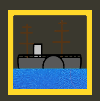
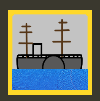
Misc. improvements

diff --git a/modules/notifications.py b/modules/notifications.py
@@ -6,6 +6,7 @@ from . import text_tools
 from . import utility
 from . import scaling
 from . import actor_utility
+from . import game_transitions
 
 class notification(multi_line_label):
     '''
@@ -150,10 +151,35 @@ class zoom_notification(notification):
         '''
         super().__init__(coordinates, ideal_width, minimum_height, modes, image, message, global_manager)
         self.notification_type = 'default'
+        self.reselect = True
         if self.global_manager.get('strategic_map_grid') in target.grids:
             self.global_manager.get('minimap_grid').calibrate(target.x, target.y)
         if target.actor_type == 'tile':
             actor_utility.calibrate_actor_info_display(self.global_manager, self.global_manager.get('tile_info_display_list'), target)
+            if not target.cell.grid.mini_grid == 'none':
+                target.grids[0].mini_grid.calibrate(target.x, target.y)
         elif target.actor_type == 'mob':
-            actor_utility.calibrate_actor_info_display(self.global_manager, self.global_manager.get('mob_info_display_list'), target)
-            actor_utility.calibrate_actor_info_display(self.global_manager, self.global_manager.get('tile_info_display_list'), target.images[0].current_cell.tile)
+            if not target.images[0].current_cell == 'none': #if non-hidden mob, move to front of tile and select
+                if self.global_manager.get('displayed_mob') == target:
+                    self.reselect = False
+                target.select()
+                target.move_to_front()
+                #actor_utility.calibrate_actor_info_display(global_manager, global_manager.get('tile_info_display_list'), target.images[0].current_cell.tile)
+                if (not target.grids[0].mini_grid == 'none'): #if not in abstract grid, calibrate mini map to mob location
+                   target.grids[0].mini_grid.calibrate(target.x, target.y)
+
+            else: #if hidden mob, move to location and select tile
+                target.grids[0].mini_grid.calibrate(target.x, target.y)
+                actor_utility.calibrate_actor_info_display(global_manager, global_manager.get('tile_info_display_list'), target.grids[0].find_cell(target.x, target.y).tile)
+            
+            #target.move_to_front()
+            #target.select()
+            #actor_utility.calibrate_actor_info_display(self.global_manager, self.global_manager.get('mob_info_display_list'), target)
+            #actor_utility.calibrate_actor_info_display(self.global_manager, self.global_manager.get('tile_info_display_list'), target.images[0].current_cell.tile)
+
+    def remove(self):
+        #if len(self.global_manager.get('notification_manager').
+        if self.reselect:
+            game_transitions.cycle_player_turn(self.global_manager, True)
+        super().remove()
+

diff --git a/modules/actor_display_tools/labels.py b/modules/actor_display_tools/labels.py
@@ -71,8 +71,8 @@ class actor_display_label(label):
             self.attached_buttons.append(buttons.upgrade_button((self.x, self.y), self.height, self.height + 6, 'none', self.modes, self, 'resource', 'scale', global_manager))
             self.attached_buttons.append(buttons.upgrade_button((self.x, self.y), self.height, self.height + 6, 'none', self.modes, self, 'resource', 'efficiency', global_manager))
             
-            self.attached_buttons.append(buttons.build_train_button((self.x, self.y), self.height + 6, self.height + 6, pygame.K_y, self.modes, 'buildings/buttons/train.png', self, global_manager))
-            self.attached_buttons.append(buttons.build_steamboat_button((self.x, self.y), self.height + 6, self.height + 6, pygame.K_u, self.modes, 'buildings/buttons/steamboat.png', self, global_manager))
+            self.attached_buttons.append(buttons.build_train_button((self.x, self.y), self.height + 6, self.height + 6, pygame.K_y, self.modes, 'mobs/train/button.png', self, global_manager))
+            self.attached_buttons.append(buttons.build_steamboat_button((self.x, self.y), self.height + 6, self.height + 6, pygame.K_u, self.modes, 'mobs/steamboat/button.png', self, global_manager))
             self.attached_buttons.append(buttons.trade_button((self.x, self.y), self.height + 6, self.height + 6, pygame.K_r, self.modes, 'buttons/trade_button.png', self, global_manager))
             self.attached_buttons.append(buttons.convert_button((self.x, self.y), self.height + 6, self.height + 6, pygame.K_t, self.modes, 'buttons/convert_button.png', self, global_manager))
             self.attached_buttons.append(buttons.evangelist_campaign_button((self.x, self.y), self.height + 6, self.height + 6, pygame.K_r, self.modes, 'buttons/public_relations_campaign_button.png', self, 'public relations campaign', global_manager))

diff --git a/modules/choice_notifications.py b/modules/choice_notifications.py
@@ -6,6 +6,7 @@ from .notifications import notification
 from . import text_tools
 from . import scaling
 from . import market_tools
+from . import utility
 
 class choice_notification(notification):
     '''
@@ -116,8 +117,13 @@ class choice_button(button):
         '''
         self.notification = notification
         if button_type == 'recruitment':
-            self.message = 'Recruit'
             self.recruitment_type = self.notification.choice_info_dict['recruitment_type']
+            if self.recruitment_type in ['steamship', 'slave workers']:
+                self.message = 'Purchase'
+                self.verb = 'purchase'
+            else:
+                self.message = 'Hire'
+                self.verb = 'hire'
             self.cost = self.notification.choice_info_dict['cost']
             self.mob_image_id = self.notification.choice_info_dict['mob_image_id']
             
@@ -217,9 +223,9 @@ class choice_button(button):
         '''
         if self.button_type == 'recruitment':
             if self.recruitment_type in ['African worker village', 'African worker slums', 'African worker labor broker']:
-                self.set_tooltip(['Recruit an African worker for ' + str(self.cost) + ' money'])
+                self.set_tooltip([utility.capitalize(self.verb) + ' an African worker for ' + str(self.cost) + ' money'])
             else:
-                self.set_tooltip(['Recruit a ' + self.recruitment_type + ' for ' + str(self.cost) + ' money'])
+                self.set_tooltip([utility.capitalize(self.verb) + ' a ' + self.recruitment_type + ' for ' + str(self.cost) + ' money'])
 
         elif self.button_type == 'end turn':
             self.set_tooltip(['End the current turn'])

diff --git a/modules/actor_creation_tools.py b/modules/actor_creation_tools.py
@@ -135,7 +135,7 @@ class actor_creation_manager_template(): #can get instance from anywhere and cre
             None
         '''
         recruitment_type = recruitment_name
-        if recruitment_name in ['slave workers', 'ship']:
+        if recruitment_name in ['slave workers', 'steamship']:
             verb = 'purchase'
         elif recruitment_name in ['African workers', 'European workers']:
             verb = 'hire'
@@ -143,7 +143,9 @@ class actor_creation_manager_template(): #can get instance from anywhere and cre
                 recruitment_type = choice_info_dict['source_type'] + ' workers' #slums workers or village workers
         else:
             verb = 'recruit'
-        if recruitment_name in ['slave workers', 'African workers', 'European workers']:
+        if recruitment_name == 'African workers' and choice_info_dict['source_type'] == 'labor broker':
+            message = 'Are you sure you want to pay a labor broker ' + str(choice_info_dict['cost']) + ' money to hire a unit of African workers from a nearby village? /n /n' 
+        elif recruitment_name in ['slave workers', 'African workers', 'European workers']:
             message = 'Are you sure you want to ' + verb + ' a unit of ' + recruitment_name + ' for ' + str(choice_info_dict['cost']) + ' money? /n /n'
         else:
             message = 'Are you sure you want to ' + verb + ' ' + utility.generate_article(recruitment_name) + ' ' + recruitment_name + ' for ' + str(choice_info_dict['cost']) + ' money? /n /n'

diff --git a/modules/turn_management_tools.py b/modules/turn_management_tools.py
@@ -83,9 +83,10 @@ def start_player_turn(global_manager, first_turn = False):
         
     if not first_turn:
         market_tools.adjust_prices(global_manager)#adjust_prices(global_manager)
-            
-    actor_utility.deselect_all(global_manager)
-    game_transitions.cycle_player_turn(global_manager, True)
+
+    if global_manager.get('displayed_mob') == 'none' or global_manager.get('displayed_mob').is_npmob:
+        actor_utility.deselect_all(global_manager)
+        game_transitions.cycle_player_turn(global_manager, True)
 
 def reset_mobs(mob_type, global_manager):
     '''
@@ -299,6 +300,15 @@ def manage_worker_migration(global_manager):
     num_slums_workers = actor_utility.get_num_available_workers('slums', global_manager)
     if num_village_workers > num_slums_workers and random.randrange(1, 7) >= 5: #1/3 chance of activating
         trigger_worker_migration(global_manager)
+
+    for current_slums in global_manager.get('slums_list'):
+        population_increase = 0
+        for current_worker in range(current_slums.available_workers):
+            if random.randrange(1, 7) == 1 and random.randrange(1, 7) == 1 and random.randrange(1, 7) == 1:
+                population_increase += 1
+                market_tools.attempt_worker_upkeep_change('decrease', 'African', global_manager)
+        if population_increase > 0:
+            current_slums.change_population(population_increase)
 
 def trigger_worker_migration(global_manager): #resolves migration if it occurs
     '''

diff --git a/modules/tiles.py b/modules/tiles.py
@@ -124,16 +124,17 @@ class tile(actor): #to do: make terrain tiles a subclass
         Output:
             None
         '''
-        inventory_used = self.get_inventory_used()
-        amount_to_remove = inventory_used - self.inventory_capacity
-        if amount_to_remove > 0:
-            commodity_types = self.get_held_commodities()
-            amount_removed = 0
-            while amount_removed < amount_to_remove:
-                commodity_removed = random.choice(commodity_types)
-                if self.get_inventory(commodity_removed) > 0:
-                    self.change_inventory(commodity_removed, -1)
-                    amount_removed += 1
+        if self.can_hold_commodities and not self.can_hold_infinite_commodities:
+            inventory_used = self.get_inventory_used()
+            amount_to_remove = inventory_used - self.inventory_capacity
+            if amount_to_remove > 0:
+                commodity_types = self.get_held_commodities()
+                amount_removed = 0
+                while amount_removed < amount_to_remove:
+                    commodity_removed = random.choice(commodity_types)
+                    if self.get_inventory(commodity_removed) > 0:
+                        self.change_inventory(commodity_removed, -1)
+                        amount_removed += 1
         
     def change_inventory(self, commodity, change):
         '''

diff --git a/modules/market_tools.py b/modules/market_tools.py
@@ -82,7 +82,7 @@ def sell(seller, sold_commodity, num_sold, global_manager):
     for i in range(num_sold):
         global_manager.get('money_tracker').change(sell_price, 'commodities sold')
         seller.change_inventory(sold_commodity, -1)
-        if random.randrange(1, 7) <= 2: #1/3 chance
+        if random.randrange(1, 7) <= 1: #1/6 chance
             change_price(sold_commodity, -1, global_manager)
     text_tools.print_to_screen("You have gained " + str(sell_price * num_sold) + " money from selling " + str(num_sold) + " unit" + utility.generate_plural(num_sold) + " of " + sold_commodity + ".", global_manager)
     new_price = global_manager.get('commodity_prices')[sold_commodity]
@@ -144,7 +144,10 @@ def calculate_subsidies(global_manager, projected = False):
             public_opinion -= 1
     else:
         public_opinion += random.randrange(-10, 11)
-    return(round(public_opinion / 5, 1)) #9.8 for 49 public opinion
+    subsidies = round(public_opinion / 5, 1)
+    if subsidies < 0:
+        subsidies = 0
+    return(subsidies) #9.8 for 49 public opinion
 
 def calculate_total_worker_upkeep(global_manager):
     num_african_workers = global_manager.get('num_african_workers')

diff --git a/modules/mobs.py b/modules/mobs.py
@@ -561,6 +561,8 @@ class mob(actor):
             
             if not self.has_infinite_movement:
                 tooltip_list.append("Movement points: " + str(self.movement_points) + "/" + str(self.max_movement_points))
+            elif self.temp_movement_disabled or self.is_vehicle and not self.has_crew:
+                tooltip_list.append("No movement")
             else:
                 tooltip_list.append("Movement points: Infinite")
 
@@ -710,7 +712,7 @@ class mob(actor):
                 self.embark_vehicle(vehicle)
                 self.set_movement_points(0)
             vehicle.select()
-        if self.can_construct and self.selected: #if can construct, update mob display to show new building possibilities in new tile
+        if (self.can_construct or self.can_trade or self.can_convert or self.is_battalion) and self.selected: #if can build any type of building, update mob display to show new building possibilities in new tile
             actor_utility.calibrate_actor_info_display(self.global_manager, self.global_manager.get('mob_info_display_list'), self)
 
         if self.is_pmob: #do an inventory attrition check when moving, using the destination's terrain

diff --git a/modules/game_transitions.py b/modules/game_transitions.py
@@ -26,7 +26,8 @@ def cycle_player_turn(global_manager, start_of_turn = False):
             turn_queue[0].grids[0].mini_grid.calibrate(turn_queue[0].x, turn_queue[0].y)
         else:
             actor_utility.calibrate_actor_info_display(global_manager, global_manager.get('tile_info_display_list'), turn_queue[0].images[0].current_cell.tile)
-        turn_queue.append(turn_queue.pop(0))
+        if not start_of_turn:
+            turn_queue.append(turn_queue.pop(0))
 
 def set_game_mode(new_game_mode, global_manager):
     '''

diff --git a/modules/mob_types/vehicles.py b/modules/mob_types/vehicles.py
@@ -291,6 +291,11 @@ class vehicle(pmob):
             current_mob.in_vehicle = True
             current_mob.selected = False
             current_mob.hide_images()
+        if new_grid == self.global_manager.get('europe_grid') or self.images[0].current_cell.has_intact_building('port'):
+            self.eject_passengers()
+            self.drop_inventory()
+        elif new_grid == self.global_manager.get('slave_traders_grid'):
+            self.eject_passengers()
 
 class train(vehicle):
     '''

diff --git a/modules/ministers.py b/modules/ministers.py
@@ -89,6 +89,11 @@ class minister():
                 
             minister_utility.update_available_minister_display(self.global_manager)
         self.stolen_already = False
+        #if not self.current_position == 'Prosecutor':
+        #    self.corruption_threshold = 0
+        #else:
+        #    self.corruption_threshold = 10
+        #    self.general_skill = 3
         self.update_tooltip()
 
     def update_tooltip(self):

diff --git a/modules/buttons.py b/modules/buttons.py
@@ -1555,6 +1555,7 @@ class minister_portrait_image(button): #image of minister's portrait - button su
             None
         '''
         if not self.current_minister == 'none':
+            self.current_minister.update_tooltip()
             self.tooltip_text = self.current_minister.tooltip_text
         self.set_tooltip(self.tooltip_text)
 
